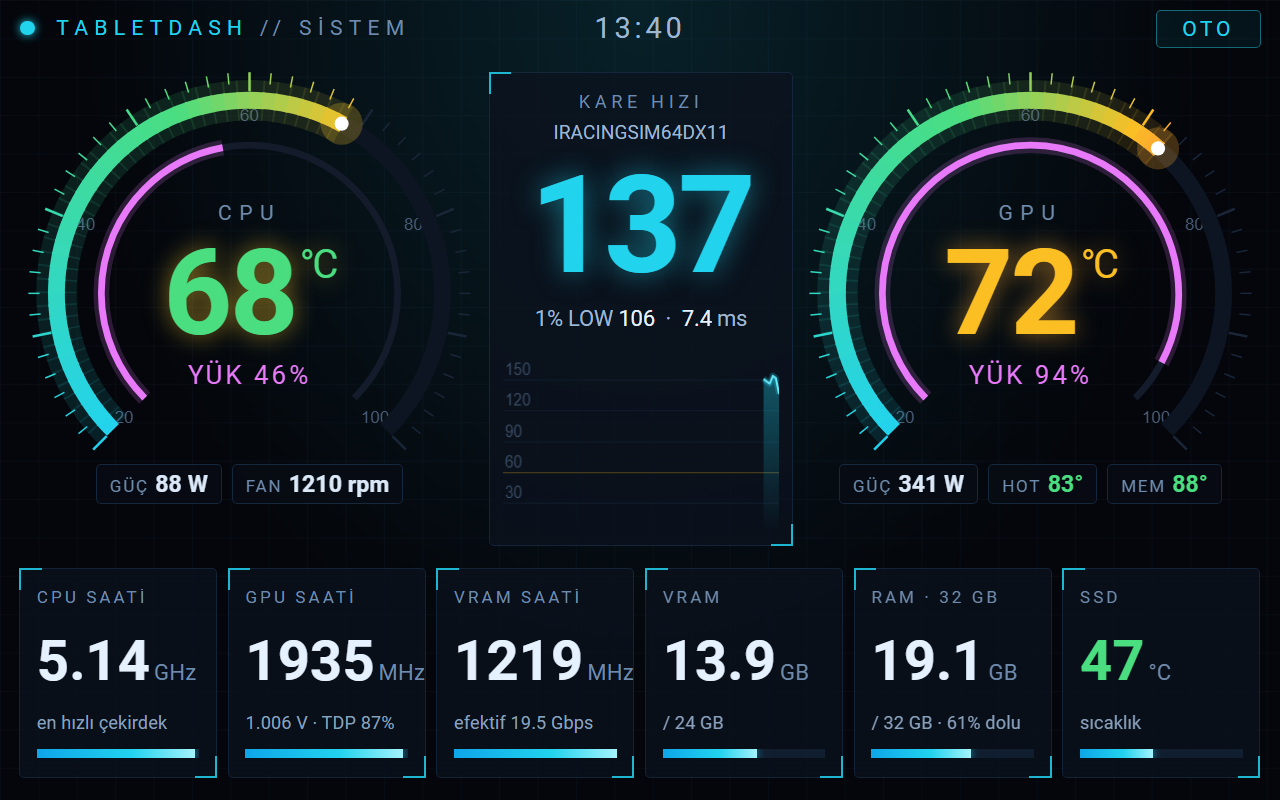
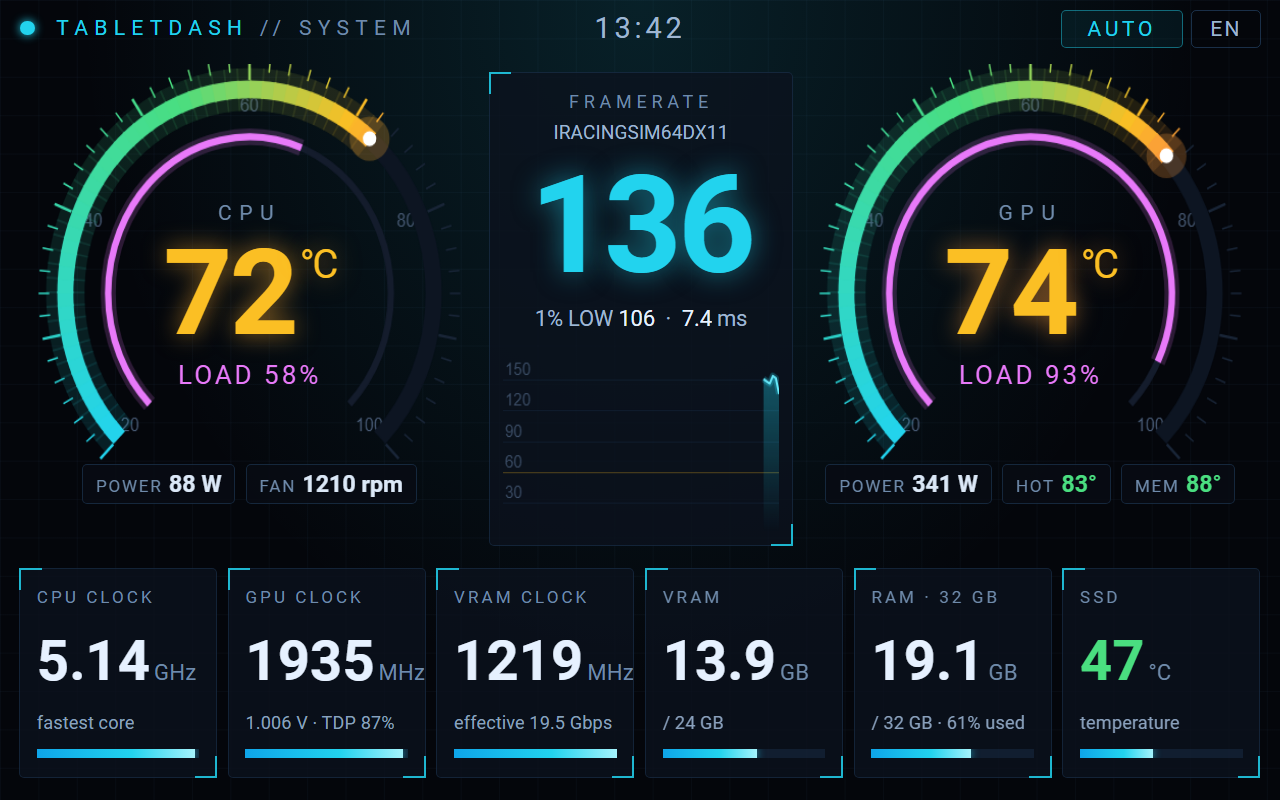
Add English/Turkish UI and English screenshots
The dashboard follows the device language with an EN/TR toggle
(?lang= overrides). Server console messages are now English and the
launcher is renamed to start.bat.

diff --git a/www/index.html b/www/index.html
@@ -40,7 +40,9 @@ body { background-color: #04060b;
 #title { position: absolute; left: 4.4vw; top: 0; line-height: 7vh; font-size: 2.6vh; letter-spacing: .5vw; color: #6f8bab; }
 #title b { color: #22d3ee; font-weight: normal; }
 #clock { position: absolute; left: 0; right: 0; top: 0; text-align: center; font-size: 3.6vh; line-height: 7vh; letter-spacing: .3vw; color: #9fb6d1; }
-#modeBtn { position: absolute; right: 1.5vw; top: 1.2vh; height: 4.6vh; line-height: 4.6vh; padding: 0 2vw; border: 1px solid rgba(34,211,238,.45);
+#langBtn { position: absolute; right: 1.5vw; top: 1.2vh; height: 4.6vh; line-height: 4.6vh; padding: 0 1.4vw; border: 1px solid rgba(90,170,255,.25);
+  color: #9fb6d1; font-size: 2.6vh; letter-spacing: .2vw; border-radius: .4vw; }
+#modeBtn { position: absolute; right: 7.6vw; top: 1.2vh; height: 4.6vh; line-height: 4.6vh; padding: 0 2vw; border: 1px solid rgba(34,211,238,.45);
   color: #22d3ee; font-size: 2.6vh; letter-spacing: .3vw; border-radius: .4vw; background: rgba(34,211,238,.07); }
 
 /* ---------- PC gorunumu ---------- */
@@ -116,22 +118,23 @@ body { background-color: #04060b;
   <div id="dot"></div><div id="title"><b>TABLETDASH</b> // <span id="titleTxt">SİSTEM</span></div>
   <div id="clock">--:--</div>
   <div id="modeBtn">OTO</div>
+  <div id="langBtn">EN</div>
 </div>
 
 <!-- ================= PC ================= -->
 <div id="pc" class="view">
-  <div id="hwMsg">HWiNFO verisi gelmiyor.<br>PC'de HWiNFO'yu "Paylaşılan Bellek Desteği" açık şekilde çalıştır.</div>
+  <div id="hwMsg" data-i="hwMsg"></div>
 
   <div class="gauge" style="left:1.5vw;">
     <canvas id="cpuGauge"></canvas>
     <div class="gName">CPU</div>
     <div class="gTemp" id="cpuTemp">--</div>
-    <div class="gLoad" id="cpuLoad">YÜK --</div>
-    <div class="gChips"><div class="chip"><span>GÜÇ</span><b id="cpuPower">--</b></div><div class="chip"><span>FAN</span><b id="cpuFan">--</b></div></div>
+    <div class="gLoad" id="cpuLoad">--</div>
+    <div class="gChips"><div class="chip"><span data-i="power"></span><b id="cpuPower">--</b></div><div class="chip"><span>FAN</span><b id="cpuFan">--</b></div></div>
   </div>
 
   <div class="hud" id="fpsBox">
-    <div class="lbl">KARE HIZI</div>
+    <div class="lbl" data-i="fps"></div>
     <div id="fpsApp">&nbsp;</div>
     <div id="fps">--</div>
     <div id="fpsSub">&nbsp;</div>
@@ -142,16 +145,16 @@ body { background-color: #04060b;
     <canvas id="gpuGauge"></canvas>
     <div class="gName">GPU</div>
     <div class="gTemp" id="gpuTemp">--</div>
-    <div class="gLoad" id="gpuLoad">YÜK --</div>
-    <div class="gChips"><div class="chip"><span>GÜÇ</span><b id="gpuPower">--</b></div><div class="chip"><span>HOT</span><b id="gpuHot">--</b></div><div class="chip"><span>MEM</span><b id="gpuMemTemp">--</b></div></div>
+    <div class="gLoad" id="gpuLoad">--</div>
+    <div class="gChips"><div class="chip"><span data-i="power"></span><b id="gpuPower">--</b></div><div class="chip"><span>HOT</span><b id="gpuHot">--</b></div><div class="chip"><span>MEM</span><b id="gpuMemTemp">--</b></div></div>
   </div>
 
-  <div class="hud tile" style="left:1.5vw;"><div class="lbl">CPU SAATİ</div><div class="val" id="tCpuClk">--</div><div class="sub" id="sCpuClk">en hızlı çekirdek</div><div class="tbar"><div id="bCpuClk"></div></div></div>
-  <div class="hud tile" style="left:17.8vw;"><div class="lbl">GPU SAATİ</div><div class="val" id="tGpuClk">--</div><div class="sub" id="sGpuClk">&nbsp;</div><div class="tbar"><div id="bGpuClk"></div></div></div>
-  <div class="hud tile" style="left:34.1vw;"><div class="lbl">VRAM SAATİ</div><div class="val" id="tMemClk">--</div><div class="sub" id="sMemClk">&nbsp;</div><div class="tbar"><div id="bMemClk"></div></div></div>
+  <div class="hud tile" style="left:1.5vw;"><div class="lbl" data-i="cpuClk"></div><div class="val" id="tCpuClk">--</div><div class="sub" data-i="fastest"></div><div class="tbar"><div id="bCpuClk"></div></div></div>
+  <div class="hud tile" style="left:17.8vw;"><div class="lbl" data-i="gpuClk"></div><div class="val" id="tGpuClk">--</div><div class="sub" id="sGpuClk">&nbsp;</div><div class="tbar"><div id="bGpuClk"></div></div></div>
+  <div class="hud tile" style="left:34.1vw;"><div class="lbl" data-i="memClk"></div><div class="val" id="tMemClk">--</div><div class="sub" id="sMemClk">&nbsp;</div><div class="tbar"><div id="bMemClk"></div></div></div>
   <div class="hud tile" style="left:50.4vw;"><div class="lbl">VRAM</div><div class="val" id="tVram">--</div><div class="sub" id="sVram">&nbsp;</div><div class="tbar"><div id="bVram"></div></div></div>
   <div class="hud tile" style="left:66.7vw;"><div class="lbl" id="lRam">RAM</div><div class="val" id="tRam">--</div><div class="sub" id="sRam">&nbsp;</div><div class="tbar"><div id="bRam"></div></div></div>
-  <div class="hud tile" style="left:83vw;"><div class="lbl">SSD</div><div class="val" id="tSsd">--</div><div class="sub">sıcaklık</div><div class="tbar"><div id="bSsd"></div></div></div>
+  <div class="hud tile" style="left:83vw;"><div class="lbl">SSD</div><div class="val" id="tSsd">--</div><div class="sub" data-i="temp"></div><div class="tbar"><div id="bSsd"></div></div></div>
 </div>
 
 <!-- ================= YARIS ================= -->
@@ -161,21 +164,21 @@ body { background-color: #04060b;
   <div class="pedal" id="brk"><div></div></div>
   <div class="pedal" id="thr"><div></div></div>
 
-  <div id="speedBox"><div class="huge" id="speed">0</div><div class="unit">KM/SA</div><div class="mini" id="temps">&nbsp;</div></div>
+  <div id="speedBox"><div class="huge" id="speed">0</div><div class="unit" data-i="kmh"></div><div class="mini" id="temps">&nbsp;</div></div>
   <div id="gear">N</div>
   <div id="pitBox">PIT</div>
   <div id="rpmBox"><div class="huge" id="rpm">0</div><div class="unit">RPM</div><div class="mini" id="bb">&nbsp;</div></div>
 
   <div class="hud" id="deltaBar"><div id="deltaFill"></div><div id="deltaMid"></div><div id="deltaTxt">--</div></div>
 
-  <div class="hud rt" style="left:2vw;"><div class="lbl">TUR</div><div class="val" id="cur">-:--.-</div><div class="sub" id="lapNo">&nbsp;</div></div>
-  <div class="hud rt" style="left:21.4vw;"><div class="lbl">SON</div><div class="val" id="last">-:--.---</div><div class="sub" id="lastDiff">&nbsp;</div></div>
-  <div class="hud rt" style="left:40.8vw;"><div class="lbl">EN İYİ</div><div class="val" id="best">-:--.---</div><div class="sub" id="left">&nbsp;</div></div>
-  <div class="hud rt" style="left:60.2vw;"><div class="lbl">YAKIT</div><div class="val" id="fuel">--</div><div class="sub" id="fuelSub">&nbsp;</div></div>
-  <div class="hud rt" style="left:79.6vw;"><div class="lbl">POZİSYON</div><div class="val" id="pos">--</div><div class="sub" id="posSub">&nbsp;</div></div>
+  <div class="hud rt" style="left:2vw;"><div class="lbl" data-i="lap"></div><div class="val" id="cur">-:--.-</div><div class="sub" id="lapNo">&nbsp;</div></div>
+  <div class="hud rt" style="left:21.4vw;"><div class="lbl" data-i="last"></div><div class="val" id="last">-:--.---</div><div class="sub" id="lastDiff">&nbsp;</div></div>
+  <div class="hud rt" style="left:40.8vw;"><div class="lbl" data-i="best"></div><div class="val" id="best">-:--.---</div><div class="sub" id="left">&nbsp;</div></div>
+  <div class="hud rt" style="left:60.2vw;"><div class="lbl" data-i="fuel"></div><div class="val" id="fuel">--</div><div class="sub" id="fuelSub">&nbsp;</div></div>
+  <div class="hud rt" style="left:79.6vw;"><div class="lbl" data-i="pos"></div><div class="val" id="pos">--</div><div class="sub" id="posSub">&nbsp;</div></div>
 </div>
 
-<div id="offline">PC'YE BAĞLANTI YOK<div>8 saniyedir veri gelmiyor. TabletDash.exe çalışıyor mu, tablet Wi-Fi'a bağlı mı?</div></div>
+<div id="offline"><span data-i="off1"></span><div data-i="off2"></div></div>
 
 <script>
 (function () {
@@ -208,6 +211,45 @@ body { background-color: #04060b;
   function store(k, v) { try { if (v === undefined) return localStorage.getItem(k); localStorage.setItem(k, v); } catch (e) { return null; } }
   function bar(id, frac) { setStyle($(id), "width", (ok(frac) ? clamp(frac, 0, 1) * 100 : 0).toFixed(1) + "%"); }
   function esc(s) { return String(s).replace(/[&<>"]/g, function (c) { return { "&": "&amp;", "<": "&lt;", ">": "&gt;", '"': "&quot;" }[c]; }); }
+
+  // ---------- dil (EN / TR): ?lang=en|tr, kayitli secim, yoksa cihaz dili
+  var I18N = {
+    en: { sys: "SYSTEM", auto: "AUTO", pc: "PC", race: "RACE", load: "LOAD", power: "POWER", fps: "FRAMERATE",
+          cpuClk: "CPU CLOCK", gpuClk: "GPU CLOCK", memClk: "VRAM CLOCK", fastest: "fastest core", temp: "temperature",
+          kmh: "KM/H", lap: "LAP", last: "LAST", best: "BEST", fuel: "FUEL", pos: "POSITION",
+          noGame: "no game detected", eff: "effective", idle: "idle", used: "used",
+          lapN: "Lap", toGo: "to go", remain: "Remaining", laps: "laps", perLap: "L/lap", calc: "calculating…",
+          cls: "Class", inc: "inc", water: "WATER", oil: "OIL", bb: "BB", track: "TRACK", limiter: "LIMITER", pit: "PIT",
+          hwMsg: "No data from HWiNFO.<br>Run HWiNFO on the PC with \"Shared Memory Support\" enabled.",
+          off1: "NO CONNECTION TO PC", off2: "No data for 8 seconds. Is TabletDash.exe running and is the tablet on Wi-Fi?" },
+    tr: { sys: "SİSTEM", auto: "OTO", pc: "PC", race: "YARIŞ", load: "YÜK", power: "GÜÇ", fps: "KARE HIZI",
+          cpuClk: "CPU SAATİ", gpuClk: "GPU SAATİ", memClk: "VRAM SAATİ", fastest: "en hızlı çekirdek", temp: "sıcaklık",
+          kmh: "KM/SA", lap: "TUR", last: "SON", best: "EN İYİ", fuel: "YAKIT", pos: "POZİSYON",
+          noGame: "oyun algılanmadı", eff: "efektif", idle: "boşta", used: "dolu",
+          lapN: "Tur", toGo: "kaldı", remain: "Kalan", laps: "tur", perLap: "L/tur", calc: "hesaplanıyor…",
+          cls: "Sınıf", inc: "olay", water: "SU", oil: "YAĞ", bb: "FD", track: "PİST", limiter: "LİMİTER", pit: "PİT",
+          hwMsg: "HWiNFO verisi gelmiyor.<br>PC'de HWiNFO'yu \"Paylaşılan Bellek Desteği\" açık şekilde çalıştır.",
+          off1: "PC'YE BAĞLANTI YOK", off2: "8 saniyedir veri gelmiyor. TabletDash.exe çalışıyor mu, tablet Wi-Fi'a bağlı mı?" }
+  };
+  var qLang = /[?&]lang=(en|tr)/.exec(location.search);
+  var lang = qLang ? qLang[1] : (store("lang") || (/^tr/i.test(navigator.language || navigator.userLanguage || "") ? "tr" : "en"));
+  if (!I18N[lang]) lang = "en";
+  function L(k) { return I18N[lang][k]; }
+  function applyLang() {
+    document.documentElement.lang = lang;
+    var els = document.querySelectorAll("[data-i]");
+    for (var i = 0; i < els.length; i++) els[i].innerHTML = L(els[i].getAttribute("data-i"));
+    setText($("langBtn"), lang === "tr" ? "TR" : "EN");
+  }
+  applyLang();
+  $("langBtn").addEventListener("click", function () {
+    lang = lang === "tr" ? "en" : "tr";
+    store("lang", lang);
+    applyLang();
+    setText($("modeBtn"), L(mode));
+    activeView = null;
+    render();
+  }, false);
 
   // Renk skalasi: cyan -> yesil -> sari -> kirmizi
   var STOPS = [[0, [34, 211, 238]], [0.42, [74, 222, 128]], [0.62, [251, 191, 36]], [0.8, [251, 75, 107]], [1, [251, 75, 107]]];
@@ -318,14 +360,14 @@ body { background-color: #04060b;
   }
 
   // ---------- mod secimi (OTO / PC / YARIS)
-  var modes = ["auto", "pc", "race"], modeNames = { auto: "OTO", pc: "PC", race: "YARIŞ" };
+  var modes = ["auto", "pc", "race"];
   var mode = store("mode") || "auto";
   if (modes.indexOf(mode) < 0) mode = "auto";
-  setText($("modeBtn"), modeNames[mode]);
+  setText($("modeBtn"), L(mode));
   $("modeBtn").addEventListener("click", function () {
     mode = modes[(modes.indexOf(mode) + 1) % modes.length];
     store("mode", mode);
-    setText($("modeBtn"), modeNames[mode]);
+    setText($("modeBtn"), L(mode));
     render();
   }, false);
 
@@ -372,7 +414,7 @@ body { background-color: #04060b;
     setHtml(el, ok(t) ? Math.round(t) + "<small>°C</small>" : "--");
     setCls(el, "gTemp " + heat(t, warn, hot));
     setStyle(el, "textShadow", ok(t) ? "0 0 3vh " + rgb(scale((t - T_MIN) / (T_MAX - T_MIN)), 0.55) : "none");
-    setText($(k + "Load"), "YÜK " + (ok(l) ? Math.round(l) + "%" : "--"));
+    setText($(k + "Load"), L("load") + " " + (ok(l) ? Math.round(l) + "%" : "--"));
   }
 
   setInterval(function () {
@@ -394,7 +436,7 @@ body { background-color: #04060b;
       activeView = want;
       setCls($("pc"), want === "pc" ? "view on" : "view");
       setCls($("race"), want === "race" ? "view on" : "view");
-      setText($("titleTxt"), want === "pc" ? "SİSTEM" : "iRACING");
+      setText($("titleTxt"), want === "pc" ? L("sys") : "iRACING");
       if (want === "pc") { paintPc(); drawFps($("fpsGraph")); }
     }
     if (want === "pc") renderPc(state.pc || {}); else renderRace(race);
@@ -415,7 +457,7 @@ body { background-color: #04060b;
 
     // FPS
     var hasFps = ok(p.fps) && p.fps > 0;
-    setText($("fpsApp"), hasFps && p.fpsApp ? p.fpsApp.toUpperCase() : (hasFps ? " " : "oyun algılanmadı"));
+    setText($("fpsApp"), hasFps && p.fpsApp ? p.fpsApp.toUpperCase() : (hasFps ? " " : L("noGame")));
     setCls($("fps"), !hasFps ? "dim" : p.fps >= 120 ? "c-cyan" : p.fps >= 60 ? "c-green" : p.fps >= 40 ? "c-amber" : "c-red");
     setStyle($("fps"), "textShadow", hasFps ? "0 0 3.5vh rgba(34,211,238,.5)" : "none");
     var sub = [];
@@ -432,7 +474,7 @@ body { background-color: #04060b;
     bar("bGpuClk", p.gpuClock / Math.max(2000, gpuClkMax));
     if (p.gpuMemClock > memClkMax) memClkMax = p.gpuMemClock;
     setHtml($("tMemClk"), ok(p.gpuMemClock) ? Math.round(p.gpuMemClock) + "<small>MHz</small>" : "--");
-    setText($("sMemClk"), ok(p.gpuMemClock) && p.gpuMemClock > 500 ? "efektif " + (p.gpuMemClock * 16 / 1000).toFixed(1) + " Gbps" : "boşta");
+    setText($("sMemClk"), ok(p.gpuMemClock) && p.gpuMemClock > 500 ? L("eff") + " " + (p.gpuMemClock * 16 / 1000).toFixed(1) + " Gbps" : L("idle"));
     bar("bMemClk", p.gpuMemClock / Math.max(1219, memClkMax));
     var vramTot = ok(p.vramUsed) && ok(p.vramFree) ? p.vramUsed + p.vramFree : NaN;
     setHtml($("tVram"), ok(p.vramUsed) ? (p.vramUsed / 1024).toFixed(1) + "<small>GB</small>" : "--");
@@ -441,7 +483,7 @@ body { background-color: #04060b;
     var ramTot = ok(p.ramTotal) && p.ramTotal > 0 ? p.ramTotal : (ok(p.ramUsed) && ok(p.ramFree) ? p.ramUsed + p.ramFree : NaN);
     setText($("lRam"), ok(ramTot) ? "RAM · " + Math.round(ramTot / 1024) + " GB" : "RAM");
     setHtml($("tRam"), ok(p.ramUsed) ? (p.ramUsed / 1024).toFixed(1) + "<small>GB</small>" : "--");
-    setText($("sRam"), (ok(ramTot) ? "/ " + Math.round(ramTot / 1024) + " GB" : "") + (ok(p.ramLoad) ? " · " + Math.round(p.ramLoad) + "% dolu" : ""));
+    setText($("sRam"), (ok(ramTot) ? "/ " + Math.round(ramTot / 1024) + " GB" : "") + (ok(p.ramLoad) ? " · " + Math.round(p.ramLoad) + "% " + L("used") : ""));
     bar("bRam", p.ramLoad / 100);
     setHtml($("tSsd"), ok(p.ssdTemp) ? Math.round(p.ssdTemp) + "<small>°C</small>" : "--");
     setCls($("tSsd"), "val " + heat(p.ssdTemp, 55, 70));
@@ -483,16 +525,16 @@ body { background-color: #04060b;
 
     var limiter = (r.warn & 0x10) !== 0;
     $("pitBox").style.display = (limiter || r.pit) ? "block" : "none";
-    setText($("pitBox"), limiter ? "LİMİTER" : "PİT");
+    setText($("pitBox"), limiter ? L("limiter") : L("pit"));
 
     var temps = [];
-    if (ok(r.water)) temps.push("SU " + num(r.water) + "°");
-    if (ok(r.oil)) temps.push("YAĞ " + num(r.oil) + "°");
+    if (ok(r.water)) temps.push(L("water") + " " + num(r.water) + "°");
+    if (ok(r.oil)) temps.push(L("oil") + " " + num(r.oil) + "°");
     setText($("temps"), temps.join("  ") || " ");
     var info = [];
     if (ok(r.fps) && r.fps > 0) info.push("FPS " + Math.round(r.fps));
-    if (ok(r.bb) && r.bb > 0) info.push("FD " + r.bb.toFixed(1) + "%");
-    else if (ok(r.trackTemp)) info.push("PİST " + num(r.trackTemp) + "°");
+    if (ok(r.bb) && r.bb > 0) info.push(L("bb") + " " + r.bb.toFixed(1) + "%");
+    else if (ok(r.trackTemp)) info.push(L("track") + " " + num(r.trackTemp) + "°");
     setText($("bb"), info.join("  ·  ") || " ");
 
     var fill = $("deltaFill");
@@ -512,17 +554,17 @@ body { background-color: #04060b;
     setText($("cur"), lapTime(r.cur, 1));
     setText($("last"), lapTime(r.last, 3));
     setText($("best"), lapTime(r.best, 3));
-    setText($("lapNo"), ok(r.lap) && r.lap > 0 ? "Tur " + r.lap + (ok(r.lapsLeft) && r.lapsLeft > 0 && r.lapsLeft < 10000 ? " · " + r.lapsLeft + " kaldı" : "") : " ");
+    setText($("lapNo"), ok(r.lap) && r.lap > 0 ? L("lapN") + " " + r.lap + (ok(r.lapsLeft) && r.lapsLeft > 0 && r.lapsLeft < 10000 ? " · " + r.lapsLeft + " " + L("toGo") : "") : " ");
     var diff = r.last > 0 && r.best > 0 ? r.last - r.best : NaN;
     setText($("lastDiff"), ok(diff) ? (diff > 0 ? "+" : "") + diff.toFixed(3) : " ");
-    setText($("left"), hms(r.timeLeft) ? "Kalan " + hms(r.timeLeft) : " ");
+    setText($("left"), hms(r.timeLeft) ? L("remain") + " " + hms(r.timeLeft) : " ");
 
     setText($("fuel"), ok(r.fuel) ? r.fuel.toFixed(1) + " L" : "--");
     setCls($("fuel"), "val" + (ok(r.fuelLaps) && r.fuelLaps < 2 ? " c-red" : ok(r.fuelLaps) && r.fuelLaps < 4 ? " c-amber" : ""));
-    setText($("fuelSub"), ok(r.fuelLaps) ? r.fuelLaps.toFixed(1) + " tur · " + r.fuelPerLap.toFixed(2) + " L/tur" : "hesaplanıyor…");
+    setText($("fuelSub"), ok(r.fuelLaps) ? r.fuelLaps.toFixed(1) + " " + L("laps") + " · " + r.fuelPerLap.toFixed(2) + " " + L("perLap") : L("calc"));
 
     setText($("pos"), r.pos > 0 ? "P" + r.pos : "--");
-    setText($("posSub"), (r.classPos > 0 && r.classPos !== r.pos ? "Sınıf P" + r.classPos + " · " : "") + (ok(r.inc) ? r.inc + "x olay" : ""));
+    setText($("posSub"), (r.classPos > 0 && r.classPos !== r.pos ? L("cls") + " P" + r.classPos + " · " : "") + (ok(r.inc) ? r.inc + "x " + L("inc") : ""));
 
     var f = r.flags || 0, col = "transparent";
     if (f & 0x10000) col = "#111";

diff --git a/src/Server.cs b/src/Server.cs
@@ -19,7 +19,7 @@ namespace TabletDash
     {
         static volatile string pcJson = "{\"hw\":false}";
         static volatile string raceJson = "{\"connected\":false}";
-        static volatile string sensorDump = "HWiNFO verisi yok.";
+        static volatile string sensorDump = "No HWiNFO data yet.";
         static string wwwDir;
         static int port = 8080;
 
@@ -36,16 +36,16 @@ namespace TabletDash
             try { listener.Start(); }
             catch (SocketException ex)
             {
-                Console.WriteLine("Port " + port + " acilamadi: " + ex.Message);
-                Console.WriteLine("Baska bir TabletDash zaten acik olabilir.");
+                Console.WriteLine("Could not open port " + port + ": " + ex.Message);
+                Console.WriteLine("Another TabletDash may already be running.");
                 Thread.Sleep(8000);
                 return;
             }
 
-            Console.WriteLine("TabletDash calisiyor. Tabletin tarayicisinda su adreslerden birini ac:");
+            Console.WriteLine("TabletDash is running. Open one of these addresses in the tablet's browser:");
             foreach (string ip in LocalIPs()) Console.WriteLine("    http://" + ip + ":" + port + "/");
-            Console.WriteLine("Sensor listesi: http://localhost:" + port + "/sensors");
-            Console.WriteLine("Kapatmak icin bu pencereyi kapat.");
+            Console.WriteLine("Sensor list: http://localhost:" + port + "/sensors");
+            Console.WriteLine("Close this window to stop.");
 
             while (true)
             {
@@ -211,7 +211,7 @@ namespace TabletDash
                     if (r == null)
                     {
                         pcJson = "{\"hw\":false}";
-                        sensorDump = "HWiNFO bulunamadi. HWiNFO'yu 'Shared Memory Support' acik olarak calistir.";
+                        sensorDump = "HWiNFO not found. Run HWiNFO with 'Shared Memory Support' enabled.";
                     }
                     else
                     {

diff --git a/README.md b/README.md
@@ -27,6 +27,8 @@ Built and tested on a Samsung Galaxy Tab 3 (SM-T310, Android 4.4) that sat in it
 - Fuel, average fuel per lap and laps remaining
 - Position, incidents, pit limiter warning, flag-colored border
 
+**Languages:** English and Turkish. The dashboard follows the device language; tap the **EN / TR** button to switch, or open `/?lang=en`.
+
 ## How it works
 
 ```
@@ -53,7 +55,7 @@ No app is installed on the tablet. The page polls `/data` over a keep-alive conn
    New-NetFirewallRule -DisplayName "TabletDash 8080" -Direction Inbound -Protocol TCP -LocalPort 8080 -RemoteAddress LocalSubnet -Action Allow
    ```
 3. In HWiNFO64: Sensors-only → Settings → tick **Shared Memory Support**
-4. Run `Baslat.bat`. The console prints the address to open, e.g. `http://192.168.1.10:8080`
+4. Run `start.bat`. The console prints the address to open, e.g. `http://192.168.1.10:8080`
 5. Open that address in the tablet's browser. Add it to the home screen for full screen.
 
 Debug helpers: `/?demo` shows fake data, `/?demo&race` shows the race screen (add `&rpm=7150` to freeze the RPM), `/sensors` lists every HWiNFO sensor.
@@ -70,7 +72,9 @@ Eski bir Android tableti (veya tarayıcısı olan herhangi bir cihazı) **PC sı
 1. `build.ps1` ile derle.
 2. Yönetici PowerShell'de yukarıdaki güvenlik duvarı komutunu bir kez çalıştır.
 3. HWiNFO64'te **Paylaşılan Bellek Desteği**'ni aç.
-4. `Baslat.bat`'ı çalıştır, pencerede yazan adresi tabletin tarayıcısında aç.
+4. `start.bat`'ı çalıştır, pencerede yazan adresi tabletin tarayıcısında aç.
+
+Arayüz cihazın diline göre Türkçe veya İngilizce açılır; sağ üstteki **EN / TR** düğmesiyle değiştirilebilir.
 
 ## License
 
